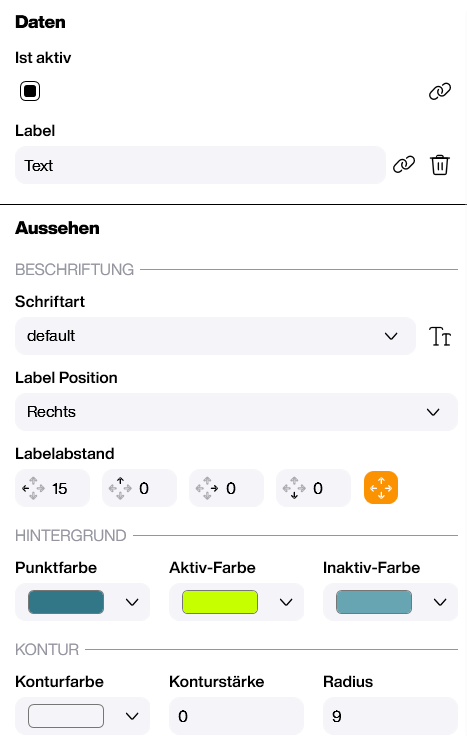
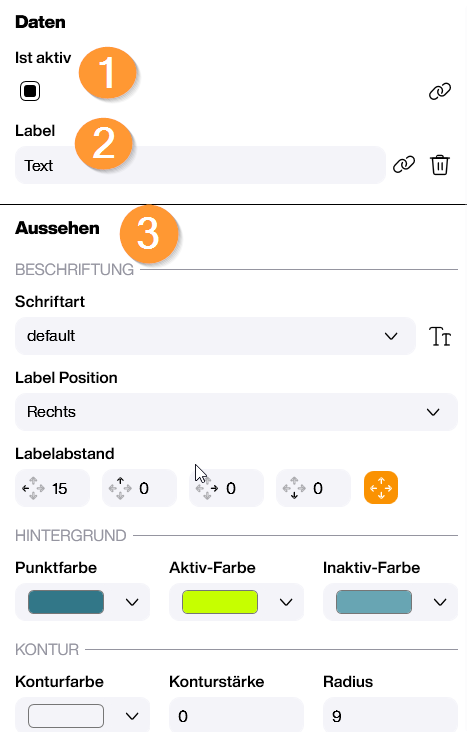
de_togglewitch images-updated

diff --git a/content/_controls/Input/de-toggleswitch.md b/content/_controls/Input/de-toggleswitch.md
@@ -27,9 +27,9 @@ In diesem Bereich definierst du die Identität des Schalters:
 
 In den Eigenschaften auf der rechten Seite bearbeitest du die visuelle Gestaltung:
 
-1. Initialer Zustand (Daten): Du kannst festlegen, ob die Checkbox beim Start der Visualisierung standardmäßig aktiviert oder deaktiviert sein soll 
-2. Label (Daten): Hier kannst du dem Kippschalter eine Bezeichnung vergeben.
-3. Schriftart & Farbe (Aussehen): Definiere die Schriftart, Größe und Position des Textes, Farben für den Hintergrund und den Schieber.
+1. Initialer Zustand (Daten): Du kannst festlegen, ob der Kippschalter beim Start der Visualisierung standardmäßig aktiviert oder deaktiviert sein soll (1)
+2. Label (Daten): Hier kannst du dem Kippschalter eine Bezeichnung vergeben. (2)
+3. Schriftart & Farbe (Aussehen): Definiere die Schriftart, Größe und Position des Textes, Farben für den Hintergrund und den Schieber. (3)
 
 ![image_3](/assets/images/Controls/Toggle-Switch/toggleswitch03.png)
 
